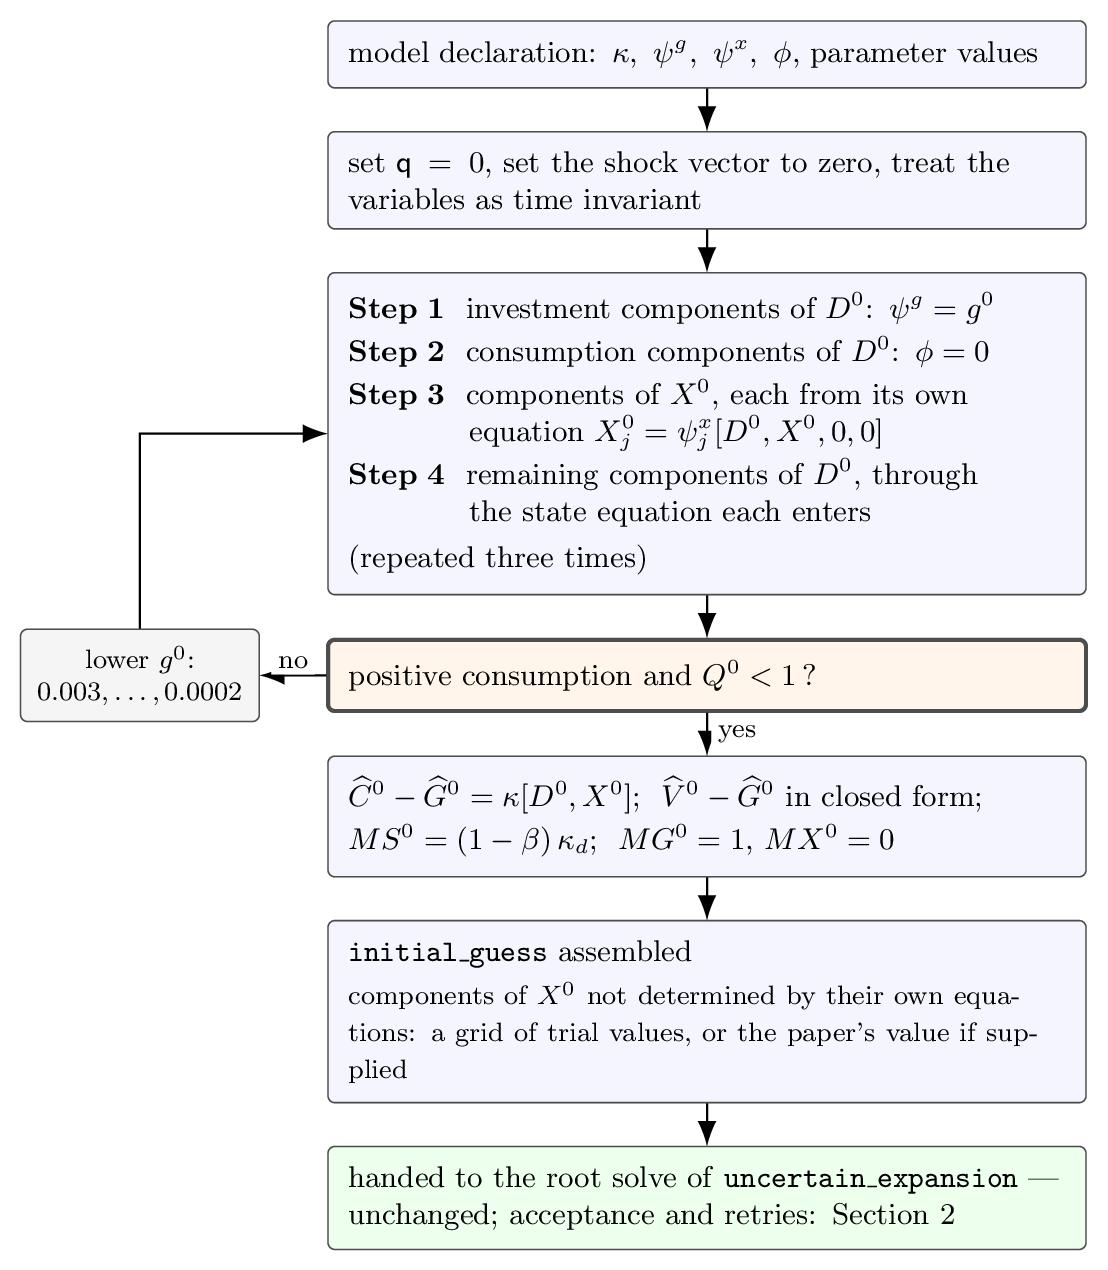
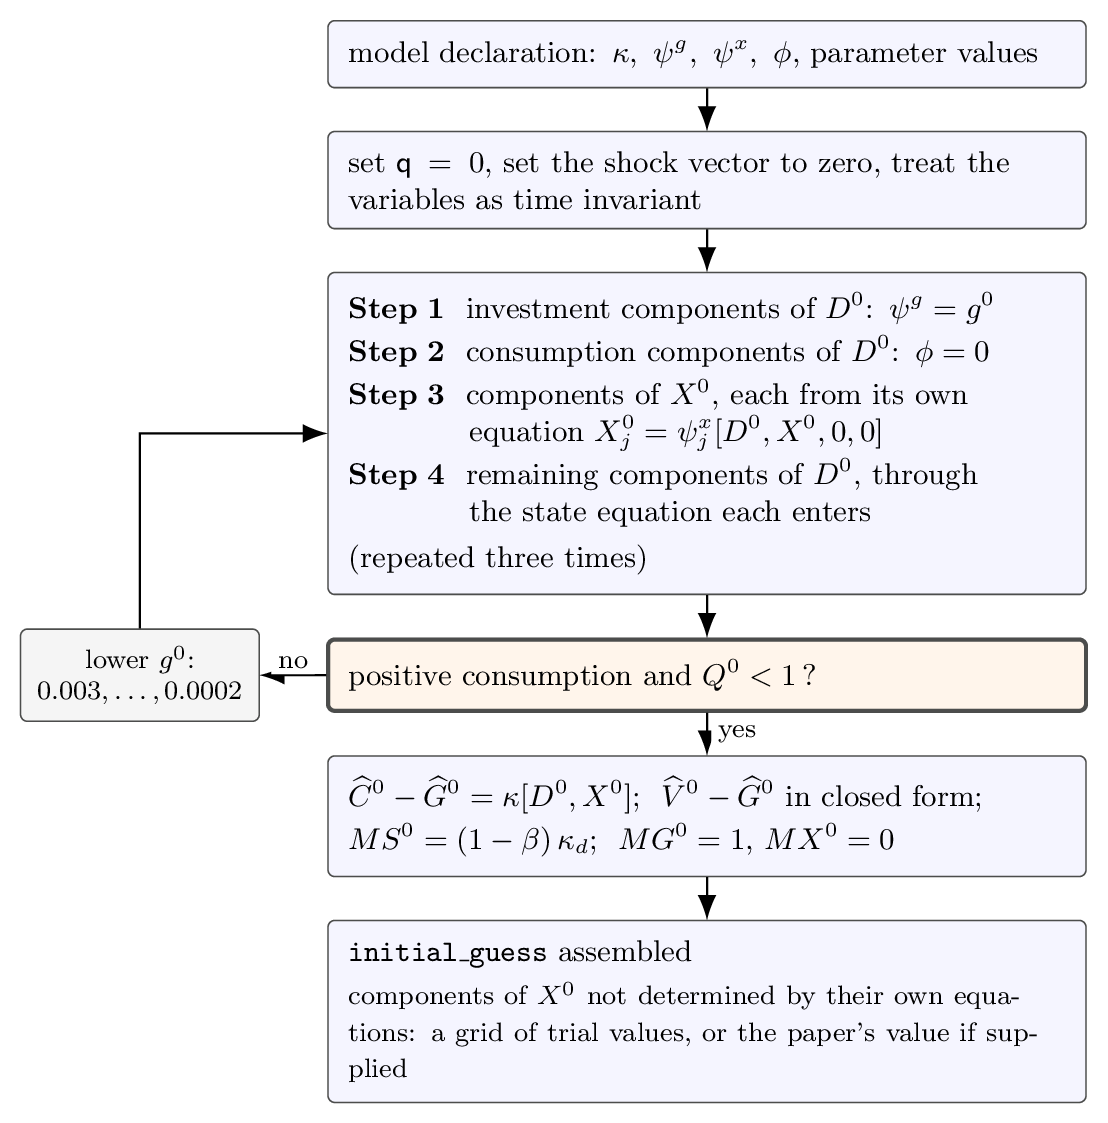
drop the limits section and the hand-off box; display the flow chart at reduced width

diff --git a/v2/support_material/flowchart.tex b/v2/support_material/flowchart.tex
@@ -46,9 +46,6 @@
   {\texttt{initial\_guess} assembled\\[2pt]
    \footnotesize components of $X^0$ not determined by their own
    equations: a grid of trial values, or the paper's value if supplied};
-\node[fin, below=4.5mm of ig]  (out)
-  {handed to the root solve of \texttt{uncertain\_expansion} --- unchanged;
-   acceptance and retries: Section 2};
 
 % ---------------- arrows ----------------
 \draw[a] (decl) -- (det);
@@ -58,6 +55,5 @@
 \draw[a] (lower.north) |- (steps.west);
 \draw[a] (feas) -- node[lbl, right=1pt]{yes} (val);
 \draw[a] (val) -- (ig);
-\draw[a] (ig) -- (out);
 \end{tikzpicture}
 \end{document}

diff --git a/v2/AUTO_GUESS.md b/v2/AUTO_GUESS.md
@@ -7,7 +7,7 @@ mathematics are unchanged.
 
 The whole algorithm at a glance (source: `support_material/flowchart.tex`):
 
-![flow chart of the automatic initial guess](support_material/flowchart.png)
+<img src="support_material/flowchart.png" alt="flow chart of the automatic initial guess" width="540">
 
 ## 1. Construction in the appendix's notation
 
@@ -193,14 +193,3 @@ The solved steady state does not depend on the trial value $g^0$:
 varying it from $0.001$ to $0.02$ moves the solved AK and KL steady
 states by less than $10^{-10}$, and an infeasible value is lowered
 automatically. The full record is in `support_material/ablation.json`.
-
-## 5. Limits
-
-1. The trial growth values, and the closing of extra investment
-   components in `autosolve.py` (set equal to the investment components
-   from Step 1), are conventions, not derivations.
-2. A component of $X^0$ that cancels out of its own steady-state
-   equation requires the grid of trial values or a supplied paper value.
-3. The two acceptance checks certify numerical convergence of the
-   compiled system, not correct model specification; the model-class
-   restriction and the paper checks remain necessary.
